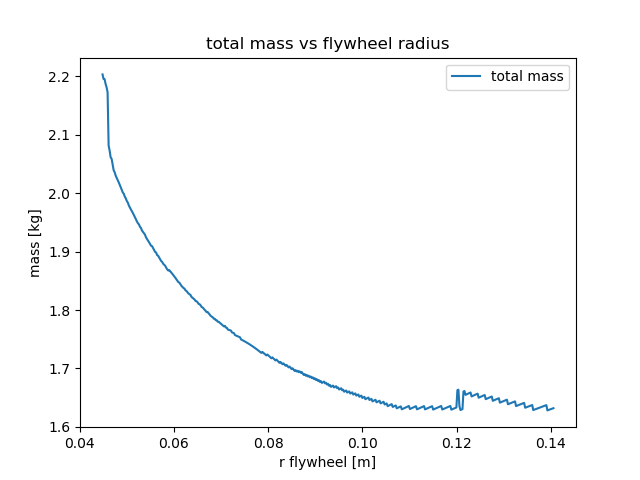
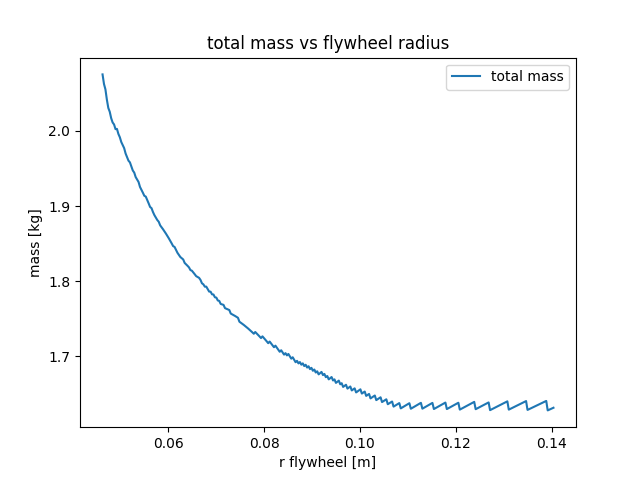
v2

diff --git a/software/mechanical_computations/optimization.py b/software/mechanical_computations/optimization.py
@@ -15,7 +15,7 @@ from robot import Robot
 def requirements(robot: Robot):
   if(robot.max_speed_horizontal_flywheel()<0.1):
     return False
-  if(robot.max_acceleration_horizontal_flywheel()<0.01):
+  if(robot.max_acceleration_horizontal_flywheel()<1):
     return False
   #if(robot.max_height_flywheel()<0.001):
    #r_flywheel (7.5,14)
@@ -37,7 +37,7 @@ def requirements(robot: Robot):
 
 def cost_function(robot: Robot):
   if(requirements(robot)):
-    return robot.m_total() - robot.max_speed_horizontal_pendulum() - robot.max_acceleration_horizontal_flywheel()
+    return -robot.max_speed_horizontal_pendulum()/1.5 - robot.max_acceleration_horizontal_flywheel()/2
   return 300.0
 
 resolution = 700
@@ -52,7 +52,7 @@ for r_f in tqdm(r_flywheel_array):
   to_save = False
   for w in numpy.linspace(0.0, 2*my_robot.r_external - 0.3, resolution):
     for r_w in numpy.linspace(r_f, my_robot.r_external, resolution):
-      for N in range(2,7):
+      for N in [2,3,4]:
         my_robot.set_r_flywheel_r_wheel_w_N(r_f,r_w,w,N)
         if (cost_function(my_robot) < aux_cost):
           to_save = True
@@ -90,14 +90,14 @@ plt.xlabel('r flywheel [m]')
 plt.ylabel('[m]')
 plt.plot([robot.r_flywheel for robot in best_robots], [robot.r_wheel for robot in best_robots])
 plt.plot([robot.r_flywheel for robot in best_robots], [robot.w for robot in best_robots])
-plt.legend(['wheel radius','w'])
+plt.legend(['wheel radius','cylinder with'])
 
 plt.figure()
 plt.title('N vs flywheel radius')
 plt.xlabel('r flywheel [m]')
 plt.ylabel('masses')
 plt.plot([robot.r_flywheel for robot in best_robots], [robot.N for robot in best_robots])
-plt.legend(['N'])
+plt.legend(['Number of masses'])
 
 plt.figure()
 plt.title('height obtained vs flywheel radius')
